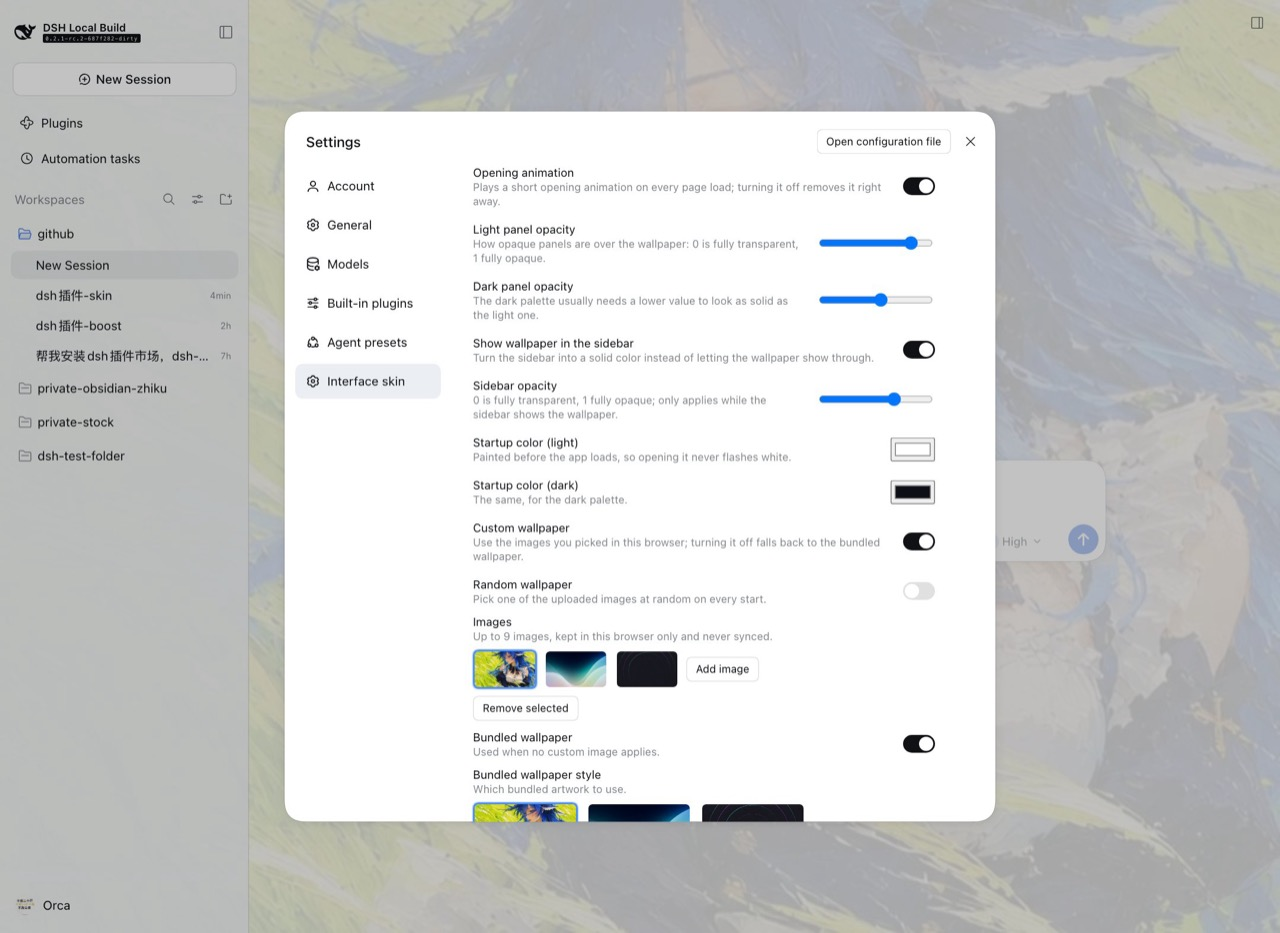
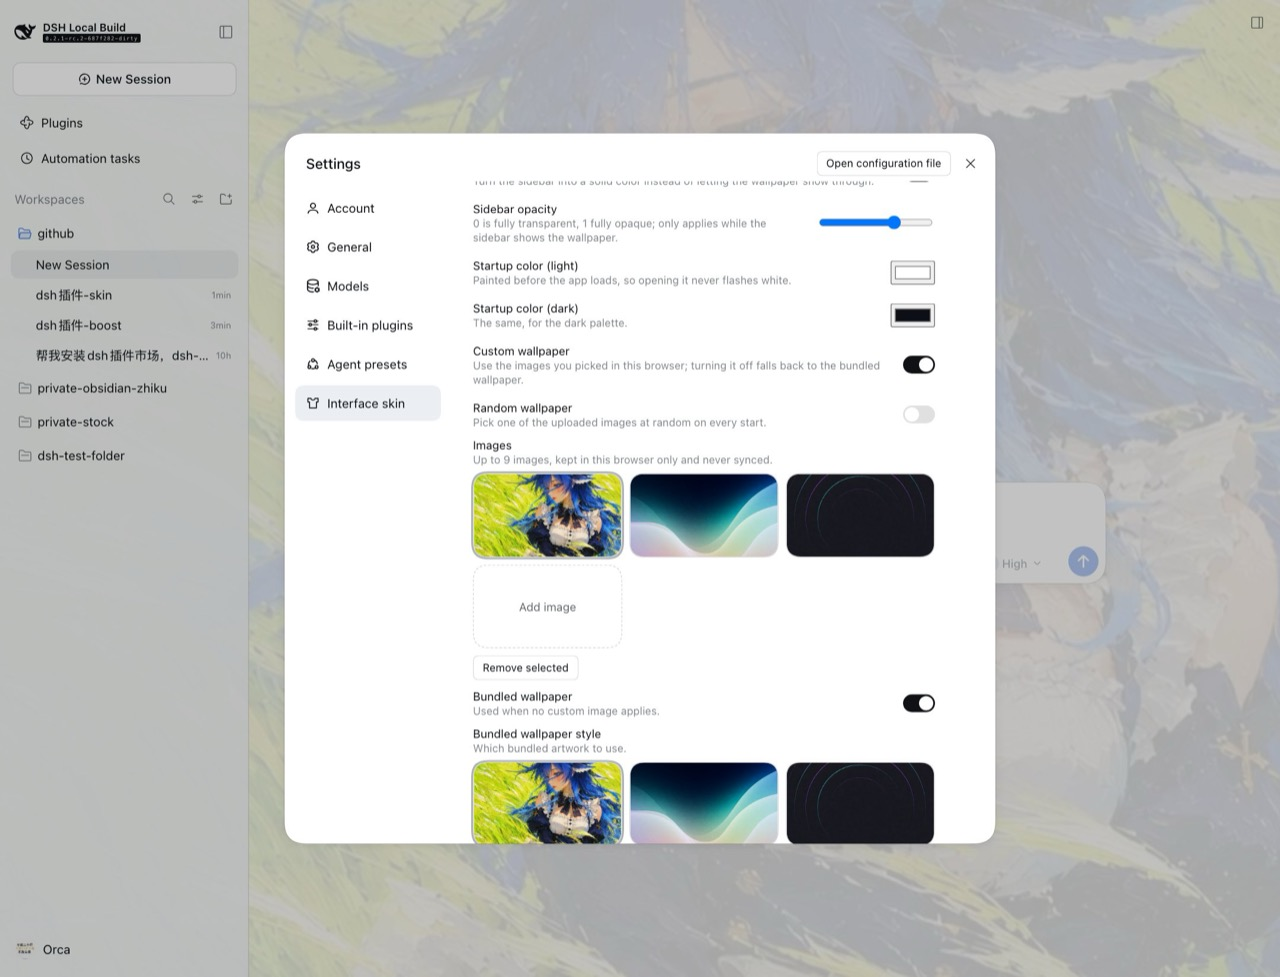
feat(shell-skin): lay wallpaper previews out three per row
Match the General settings appearance cubes: equal columns, 8px gap,
xl radius, and the same neutral ring for the selected tile.

diff --git a/src/client/SkinSettingsRow.tsx b/src/client/SkinSettingsRow.tsx
@@ -446,7 +446,7 @@ export function SkinSettingsRow({ view, form, preview, listWallpapers, activeWal
             <br />
             <span style={hint}>{copy('image.description')}</span>
           </span>
-          <div style={{ display: 'flex', gap: 8, flexWrap: 'wrap', alignItems: 'center' }}>
+          <div style={{ display: 'grid', gridTemplateColumns: 'repeat(3, minmax(0, 1fr))', gap: 8 }}>
             {gallery.map(item => (
               <button
                 key={item.id}
@@ -457,27 +457,38 @@ export function SkinSettingsRow({ view, form, preview, listWallpapers, activeWal
                 onClick={() => { void chooseWallpaper(item.id) }}
                 style={{
                   padding: 0,
-                  width: 72,
-                  height: 44,
+                  width: '100%',
+                  aspectRatio: '16 / 9',
                   overflow: 'hidden',
-                  borderRadius: 8,
+                  borderRadius: 'var(--dsw-radius-xl)',
                   cursor: 'pointer',
                   background: 'transparent',
-                  border: active === item.id ? '2px solid #4c8dff' : '2px solid transparent',
-                  boxShadow: active === item.id ? '0 0 0 1px rgba(76,141,255,0.35)' : 'inset 0 0 0 1px rgba(0,0,0,0.12)',
+                  border: '0.5px solid var(--dsw-alias-border-l4)',
+                  boxShadow: active === item.id ? '0 0 0 2px var(--dsw-static-neutral-bluish-400)' : 'none',
                 }}
               >
                 <img src={item.url} alt="" style={{ width: '100%', height: '100%', objectFit: 'cover', display: 'block' }} />
               </button>
             ))}
-            <Button
-              size="sm"
-              variant="outline"
+            <button
+              type="button"
               disabled={disabled || !storageAvailable || gallery.length >= MAX_WALLPAPERS}
               onClick={() => inputRef.current?.click()}
+              style={{
+                aspectRatio: '16 / 9',
+                width: '100%',
+                borderRadius: 'var(--dsw-radius-xl)',
+                border: '0.5px dashed var(--dsw-alias-border-l4)',
+                background: 'transparent',
+                color: 'var(--dsw-alias-label-secondary)',
+                font: 'inherit',
+                fontSize: 13,
+                cursor: 'pointer',
+                opacity: disabled || !storageAvailable || gallery.length >= MAX_WALLPAPERS ? 0.5 : 1,
+              }}
             >
               {copy('image.add')}
-            </Button>
+            </button>
             <input
               ref={inputRef}
               type="file"
@@ -525,7 +536,7 @@ export function SkinSettingsRow({ view, form, preview, listWallpapers, activeWal
           <br />
           <span style={hint}>{copy('preset.description')}</span>
         </span>
-        <span style={{ display: 'flex', gap: 10 }}>
+        <span style={{ display: 'grid', gridTemplateColumns: 'repeat(3, minmax(0, 1fr))', gap: 8 }}>
           {(presets ?? []).map(preset => {
             const selected = value.bundledPreset === preset.id
             return (
@@ -538,14 +549,14 @@ export function SkinSettingsRow({ view, form, preview, listWallpapers, activeWal
                 onClick={() => { write('bundledPreset', preset.id); commit() }}
                 style={{
                   padding: 0,
-                  width: 118,
-                  height: 66,
+                  width: '100%',
+                  aspectRatio: '16 / 9',
                   overflow: 'hidden',
-                  borderRadius: 8,
+                  borderRadius: 'var(--dsw-radius-xl)',
                   cursor: 'pointer',
                   background: 'transparent',
-                  border: selected ? '2px solid #4c8dff' : '2px solid transparent',
-                  boxShadow: selected ? '0 0 0 1px rgba(76,141,255,0.35)' : 'inset 0 0 0 1px rgba(0,0,0,0.12)',
+                  border: '0.5px solid var(--dsw-alias-border-l4)',
+                  boxShadow: selected ? '0 0 0 2px var(--dsw-static-neutral-bluish-400)' : 'none',
                   opacity: disabled || !value.bundledWallpaper ? 0.5 : 1,
                 }}
               >

diff --git a/CHANGELOG.md b/CHANGELOG.md
@@ -10,6 +10,7 @@
 - 新增「随机壁纸」开关：打开后每次启动从已上传的图片里随机选一张。
 - 设置页底部新增「报告问题」与「复制诊断信息」：前者打开带模板的 issue，后者只复制版本、平台和设置项，不包含图片或个人信息。
 - 设置导航里「界面皮肤」的图标换成 T 恤轮廓（取自 Ant Design Icons 的 SkinOutlined，MIT）。宿主按 section id 固定图标，插件在运行时替换。
+- 设置页的壁纸预览改为每行三张，间距、圆角和选中描边与「通用 → 外观」的选择块保持一致。
 - 全面改写中英文文案：去掉“半边”等内部说法，统一用「开场动画 / 侧边栏 / 面板透明度」，每一项说明改成描述用户看到的效果。
 - 插件卡片的描述改为功能导向：「开场动画、自定义壁纸、面板透明度，改完立即生效」。
 
